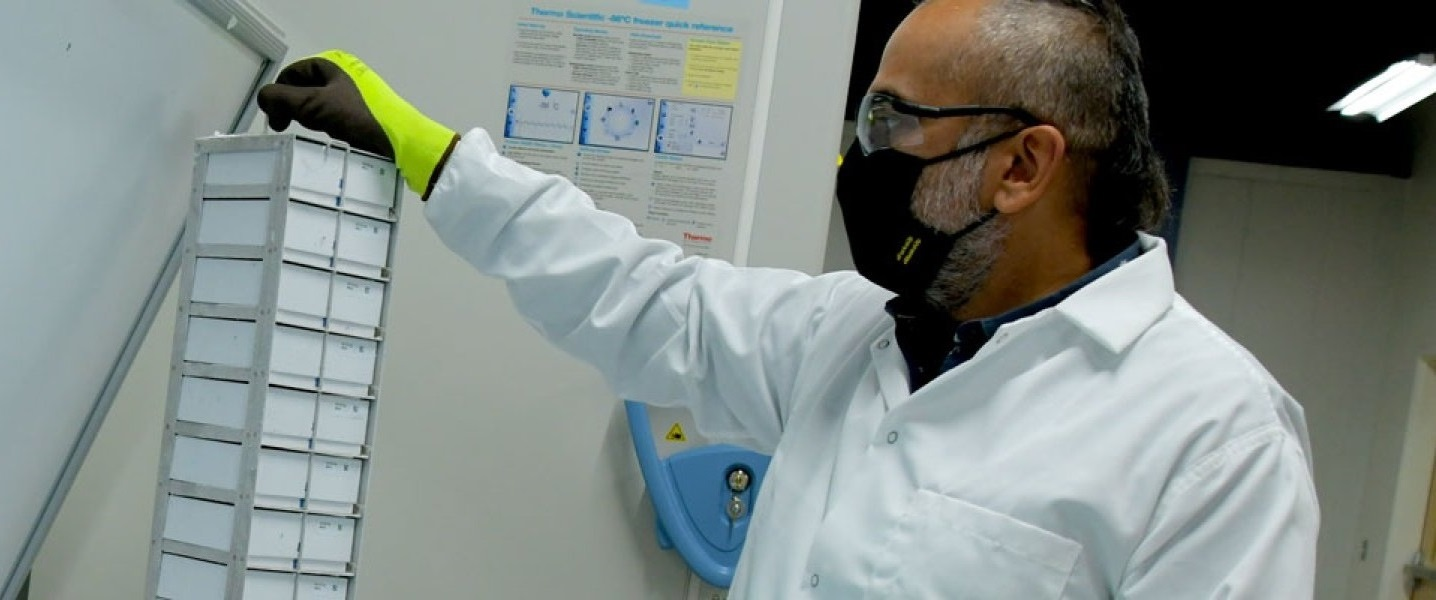
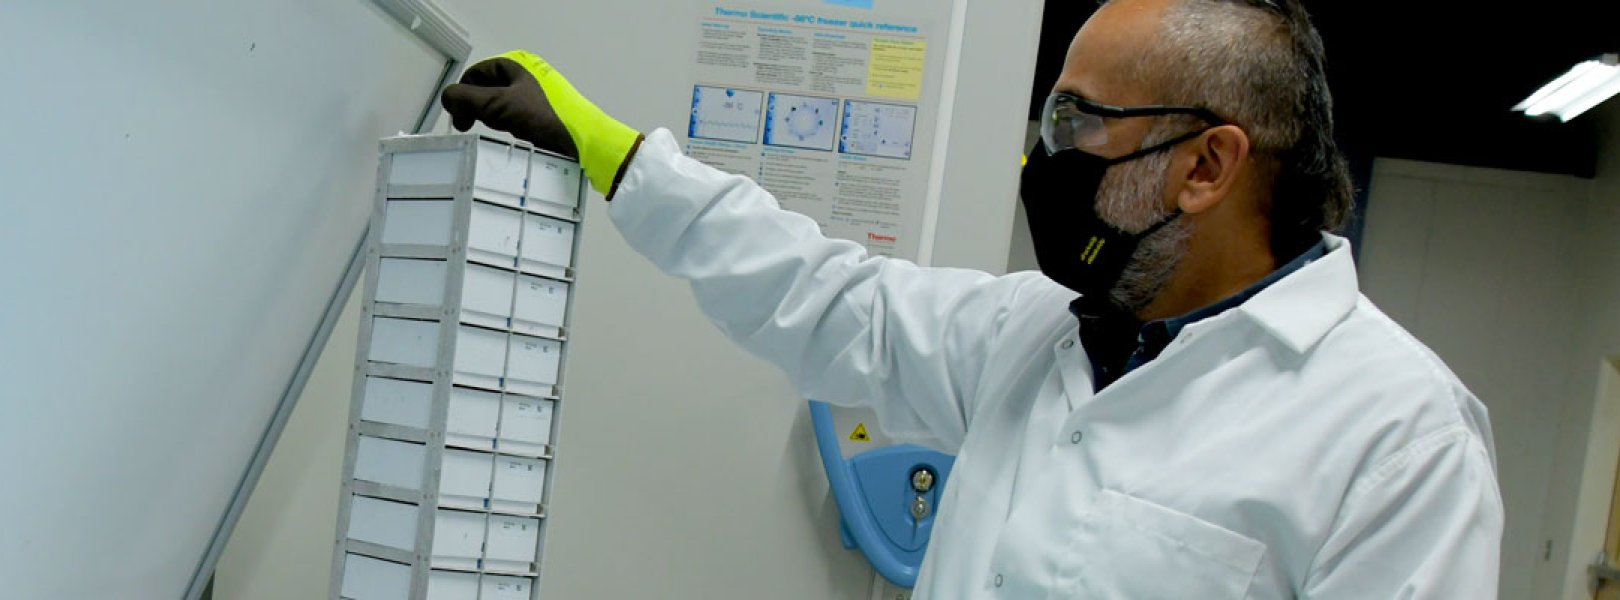
Added border to hero image

diff --git a/misc/aboutsamples.php b/misc/aboutsamples.php
@@ -9,12 +9,93 @@ header('Content-Type: text/html; charset=' . $CHARSET);
 		include_once($SERVER_ROOT.'/includes/head.php');
 		?>
 	</head>
+	
+	<script>
+		window.onload = function() {
+			function updateElementWidth() {	
+				// hero image
+				var neonPageContent = document.querySelector('div[data-selenium="neon-page.content"]');
+				var neonPageContentWidth = neonPageContent.offsetWidth;
+	
+				var muiContainer = document.querySelector('div.MuiContainer-root');
+				var muiContainerStyle = window.getComputedStyle(muiContainer);
+				var muiContainerRightMargin = parseFloat(muiContainerStyle.marginRight);
+	
+				var neonPageContentStyle = window.getComputedStyle(neonPageContent);
+				var neonPageContentpaddingLeft = parseFloat(neonPageContentStyle.paddingLeft);
+				
+				document.getElementById('heroimage-div').style.width = (neonPageContentWidth + muiContainerRightMargin) + 'px';
+			}
+			
+			var heroDiv = document.getElementById('heroimage-div');
+			if (heroDiv) {
+				// Update the width on initial load
+				updateElementWidth();
+			
+				// Update the width on window resize
+				window.addEventListener('resize', updateElementWidth);
+			}
+		
+			
+		  document.getElementById("downloadButton").addEventListener("click", function() {
+			fetch("https://data.neonscience.org/api/v0/samples/supportedClasses")
+			  .then(response => response.json())
+			  .then(data => {
+				const entries = data.data.entries;
+		
+				// Convert the JSON entries to CSV format
+				const csvData = [];
+				const headers = ["key", "value"];
+				csvData.push(headers.join(","));
+		
+				entries.forEach(entry => {
+				  csvData.push([entry.key, entry.value].join(","));
+				});
+		
+				// Create a CSV blob
+				const blob = new Blob([csvData.join("\n")], { type: "text/csv" });
+				const url = URL.createObjectURL(blob);
+		
+				// Create a link to download the CSV file
+				const a = document.createElement("a");
+				a.href = url;
+				a.download = "sample_classes.csv";
+				document.body.appendChild(a);
+				a.click();
+				document.body.removeChild(a);
+			  })
+			  .catch(error => console.error('Error fetching or processing the data:', error));
+		  });
+		}
+	</script>
+
+	<style>
+	  #heroimage-div {
+		position: relative;
+		right: 74px;
+	  }
+	
+	  #heroimage-div::after {
+		content: '';
+		position: absolute;
+		background-image: url('<?php echo $CLIENT_ROOT . '/images/card-images/white-border.png'; ?>');
+		background-position: 50% 0;
+		background-repeat: repeat no-repeat;
+		bottom: -30px;
+		height: 60px;
+		width: 100%;
+		left: 0;
+	  }
+	</style>
+	
 	<body>
 		<!-- This is inner text! -->
 		<div id="innertext">
 			<h1>About Samples</h1>
 			</br>
-			<img src="<?php echo $CLIENT_ROOT . '/images/card-images/2021_04_Photo_Biorepository-ASU-handling-samples-jpg_0.jpg'; ?>" style="position: relative; right: 75px;" alt="ASU biorepository" loading="lazy">
+			<div id = "heroimage-div">
+				<img src="<?php echo $CLIENT_ROOT . '/images/card-images/2021_04_Photo_Biorepository-ASU-handling-samples-jpg_0.jpg'; ?>" style="max-width:100%" alt="ASU biorepository" loading="lazy">
+			</div>
 			<p>NEON has been collecting specimens as part of its sampling program since 2012. Certain samples are earmarked for immediate curation at an archival institution, while others are sent to analytical facilities for chemical, taxonomic or genetic analysis. Where possible, the downstream byproducts of these analyses are archived in lieu of the original sample (e.g., when ear tissue from small mammal collections are sent for genetic analysis, any surplus genomic extracts are preserved at an archive facility). In 2018, NEON began construction of the NEON Biorepository – a facility intended to archive most specimens curated by the NEON program - at the Arizona State University Biocollections in Tempe, AZ. The NEON Biorepository publishes occurrence records for every archived sample and specimen, as well as additional value-added sample-associated data not present in NEON data products in the sample portal and makes these samples available for loan.</p>
 			<h2>Sample Organization</h2>
 			<div id="biorepo-aboutsamples-content"></div>
@@ -30,7 +111,7 @@ header('Content-Type: text/html; charset=' . $CHARSET);
 			<!--		<path d="M19 12v7H5v-7H3v7c0 1.1.9 2 2 2h14c1.1 0 2-.9 2-2v-7h-2zm-6 .67l2.59-2.58L17 11.5l-5 5-5-5 1.41-1.41L11 12.67V3h2z"></path>-->
 			<!--	</svg>-->
 			<!--</a>-->
-			<button class="MuiButtonBase-root MuiButton-root MuiButton-outlined MuiButton-outlinedPrimary" tabindex="0" type="button" data-selenium="download-sample-classes-button">
+			<button class="MuiButtonBase-root MuiButton-root MuiButton-outlined MuiButton-outlinedPrimary" tabindex="0" type="button" data-selenium="download-sample-classes-button" id="downloadButton">
 				<span class="MuiButton-label" style="font-weight:600">Download current list of supported sample classes
 					<svg class="MuiSvgIcon-root MuiSvgIcon-fontSizeSmall" focusable="false" viewBox="0 0 24 24" aria-hidden="true" style="margin-left: 8px;">
 						<path d="M19 12v7H5v-7H3v7c0 1.1.9 2 2 2h14c1.1 0 2-.9 2-2v-7h-2zm-6 .67l2.59-2.58L17 11.5l-5 5-5-5 1.41-1.41L11 12.67V3h2z"></path>
